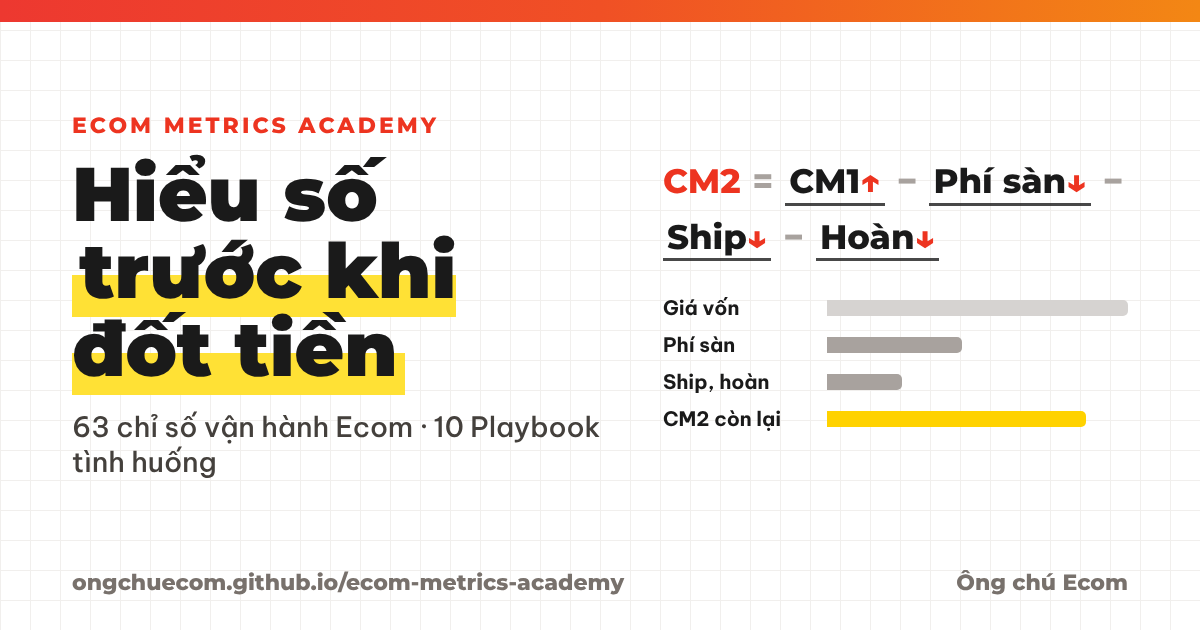
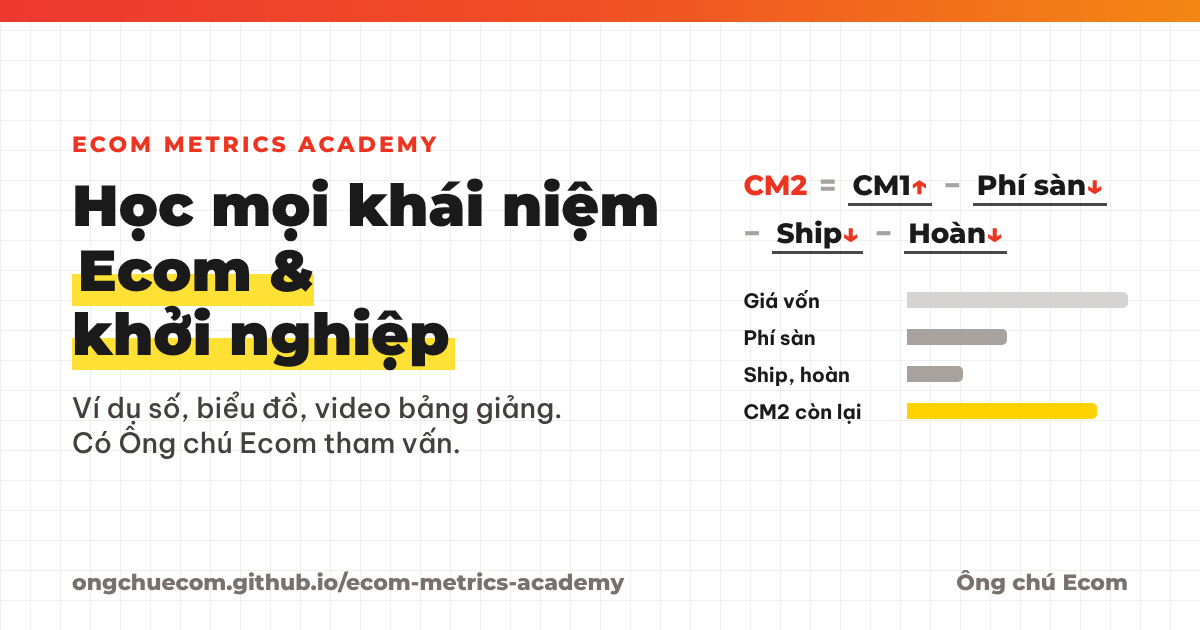
Trang chủ: định vị là nơi học mọi khái niệm Ecom và khởi nghiệp, có Ông chú Ecom tham vấn
- Chỉ số là mảng đầu tiên, kho khái niệm được thêm dần
- Dành cho ai: người khởi nghiệp, chủ shop đang vận hành, đội ngũ
- Cập nhật mô tả SEO, ảnh chia sẻ và dòng giới thiệu ở thanh bên

Claude-Session: https://claude.ai/code/session_01VjiKSVrxM6hFhmcFRpdeVG

Changed region(s): [[0.0617, 0.181, 0.9558, 0.754], [0.555, 0.4524, 0.9558, 0.6937]]

diff --git a/src/components/Home.jsx b/src/components/Home.jsx
@@ -62,11 +62,12 @@ export default function Home({ onSelectMetric, onOpenPlaybook, onOpenHealth, onS
         <div>
           <p className="eyebrow text-brand-600">Ecom Metrics Academy · Miễn phí</p>
           <h1 className="mt-2 font-display text-3xl font-black leading-tight text-ink sm:text-[2.6rem]">
-            Học đọc số để shop <span className="marker">có lãi thật</span>, không chỉ có doanh thu
+            Học mọi khái niệm Ecom và khởi nghiệp, <span className="marker">có Ông chú Ecom tham vấn</span>
           </h1>
           <p className="mt-4 max-w-xl text-[15px] leading-relaxed text-body">
-            Đây là nơi học <b>{nM} chỉ số vận hành Ecom</b> và <b>{nP} Playbook tình huống</b> cho chủ shop TikTok Shop, Shopee, Lazada và website.
-            Mỗi chỉ số có công thức, ví dụ số của shop Việt, video bảng giảng một phút và sơ đồ nó kéo theo những chỉ số nào. Viết theo văn phong sách Ecom Truyền Kỳ, nói thẳng, có số.
+            Làm Ecom và khởi nghiệp có cả trăm khái niệm phải hiểu đúng: lãi thật, dòng tiền, tồn kho, quảng cáo, đội ngũ, vận hành…
+            Ở đây mỗi khái niệm được giải thích bằng ví dụ số, biểu đồ và video bảng giảng, theo văn phong sách Ecom Truyền Kỳ: nói thẳng, có số, áp dụng được ngay.
+            Chỗ nào chưa thông thì hỏi thẳng Ông chú Ecom.
           </p>
           <div className="mt-5 flex flex-wrap gap-2">
             <button onClick={onOpenHealth} className="rounded-full bg-brand-600 px-5 py-2.5 font-display text-sm font-bold text-white hover:bg-brand-700">Khám sức khỏe shop →</button>
@@ -83,10 +84,11 @@ export default function Home({ onSelectMetric, onOpenPlaybook, onOpenHealth, onS
 
       {/* Có gì bên trong */}
       <section aria-labelledby="ben-trong">
-        <H2 id="ben-trong">Bên trong có gì</H2>
+        <H2 id="ben-trong">Đang có gì để học</H2>
+        <p className="-mt-1 mb-4 max-w-3xl text-sm leading-relaxed text-charcoal">Kho khái niệm được thêm dần, mảng đầu tiên là các chỉ số vận hành vì đó là chỗ nhiều shop mất tiền nhất. Các khái niệm mới được rút từ sách Ecom Truyền Kỳ và từ những bài viết hay, Ông chú Ecom duyệt rồi mới lên.</p>
         <dl className="grid gap-x-8 gap-y-5 sm:grid-cols-2 lg:grid-cols-4">
           {[
-            [nM, 'bài chỉ số', 'Từ giá vốn, phí sàn, CM1–CM3 tới ROAS hòa vốn, tồn kho, dòng tiền, đội ngũ. Đi theo 7 khâu của một shop.'],
+            [nM, 'khái niệm chỉ số', 'Từ giá vốn, phí sàn, CM1–CM3 tới ROAS hòa vốn, tồn kho, dòng tiền, đội ngũ. Đi theo 7 khâu của một doanh nghiệp Ecom.'],
             [nP, 'Playbook tình huống', 'Doanh thu cao mà không lãi, lãi trên giấy mà hết tiền, vít Ads khi nào… mỗi Playbook có case, sai lầm hay gặp và việc cần làm.'],
             ['1', 'bản khám sức khỏe shop', 'Điền P&L một tháng, nhận chẩn đoán từng tầng lãi và Playbook nên đọc trước.'],
             ['10', 'bài tập chẩn đoán', 'Bệnh án shop thật, tự tính và tự quyết, sai thì có gợi ý.'],
@@ -104,9 +106,9 @@ export default function Home({ onSelectMetric, onOpenPlaybook, onOpenHealth, onS
         <H2 id="danh-cho-ai">Dành cho ai</H2>
         <ul className="grid gap-3 sm:grid-cols-3">
           {[
-            ['Chủ shop, founder', 'Doanh thu đều mà cuối tháng không thấy tiền. Cần biết tiền rò ở tầng nào và sửa chỗ nào trước.'],
-            ['Team Ads, vận hành, kế toán', 'Cần chung một cách tính: ROAS bao nhiêu thì hòa vốn, đơn hoàn tốn bao nhiêu, tiền kẹt ở đâu.'],
-            ['Người mới vào nghề', 'Đi theo lộ trình 10 bài, mỗi bài năm phút đọc, có ví dụ số để tự tính lại.'],
+            ['Người đang khởi nghiệp', 'Mới bắt đầu hoặc sắp bắt đầu làm Ecom. Cần hiểu đúng khái niệm trước khi bỏ tiền, khỏi phải trả học phí bằng tiền thật.'],
+            ['Chủ shop, founder đang vận hành', 'Doanh thu đều mà cuối tháng không thấy tiền, bộ máy phình ra, tiền kẹt. Cần biết vấn đề nằm ở đâu và sửa chỗ nào trước.'],
+            ['Đội ngũ và người mới vào nghề', 'Team Ads, vận hành, kế toán cần chung một cách hiểu và cách tính. Người mới đi theo lộ trình, mỗi bài năm phút đọc.'],
           ].map(([t, d]) => (
             <li key={t} className="rounded-2xl bg-stone-50 p-4">
               <p className="font-display font-extrabold text-ink">{t}</p>
@@ -131,9 +133,9 @@ export default function Home({ onSelectMetric, onOpenPlaybook, onOpenHealth, onS
             <ul className="mt-4 space-y-2 text-sm leading-relaxed text-body">
               <li className="flex gap-2"><span className="mt-2 h-1.5 w-1.5 shrink-0 rounded-full bg-brand-500" />Làm online và digital marketing từ 2008, từng là co-founder một công ty digital hơn 100 người.</li>
               <li className="flex gap-2"><span className="mt-2 h-1.5 w-1.5 shrink-0 rounded-full bg-brand-500" />Ba năm gần đây làm việc cùng khoảng 50 công ty Ecom ở Hà Nội, Đà Nẵng, Sài Gòn, nói chuyện với hàng ngàn founder.</li>
-              <li className="flex gap-2"><span className="mt-2 h-1.5 w-1.5 shrink-0 rounded-full bg-brand-500" />Toàn bộ công thức và cách tính trên trang này đi theo sách Ecom Truyền Kỳ.</li>
+              <li className="flex gap-2"><span className="mt-2 h-1.5 w-1.5 shrink-0 rounded-full bg-brand-500" />Cách hiểu và cách tính trên trang này đi theo sách Ecom Truyền Kỳ.</li>
             </ul>
-            <p className="mt-4 text-sm leading-relaxed text-charcoal">Đọc bài mà vẫn chưa chắc số của shop mình đúng hay sai, cứ hỏi. Ông chú Ecom và đội A1demy trực tiếp trả lời.</p>
+            <p className="mt-4 text-sm leading-relaxed text-charcoal">Mỗi khái niệm trên trang đều qua tay Ông chú Ecom tham vấn. Đọc xong mà vẫn chưa chắc áp vào shop mình thế nào, cứ hỏi, Ông chú Ecom và đội A1demy trực tiếp trả lời.</p>
           </div>
 
           <div>
@@ -219,7 +221,8 @@ export default function Home({ onSelectMetric, onOpenPlaybook, onOpenHealth, onS
           {[
             ['Có mất phí không?', 'Không. Toàn bộ bài đọc, video, Playbook và công cụ khám sức khỏe đều miễn phí.'],
             ['Số trong ví dụ lấy ở đâu?', 'Là số minh họa dựng theo shop Việt điển hình, phép tính đều khớp. Số tham khảo chỉ để định hướng, mỗi ngành hàng sẽ khác.'],
-            ['Dùng cho TikTok Shop hay Shopee?', 'Cả hai, và cả website, Lazada. Công thức dùng chung, chỉ cần thay phí sàn, phí ship của kênh mình vào.'],
+            ['Chỉ có chỉ số thôi à?', 'Chỉ số là mảng đầu tiên. Kho khái niệm Ecom và khởi nghiệp được thêm dần từ sách Ecom Truyền Kỳ và những bài viết hay, khái niệm nào cũng có ví dụ số.'],
+            ['Bán kênh nào cũng dùng được?', 'Được. TikTok Shop, Shopee, Lazada hay website đều dùng chung cách hiểu; phần tính toán chỉ cần thay phí sàn, phí ship của kênh mình.'],
             ['Ai viết bài?', 'Ông chú Ecom biên soạn theo sách Ecom Truyền Kỳ, có AI hỗ trợ dựng ví dụ, biểu đồ và video. Bài mới chưa duyệt mang nhãn “Mới · đang duyệt”.'],
           ].map(([q, a]) => (
             <div key={q}>

diff --git a/index.html b/index.html
@@ -8,7 +8,7 @@
     <link rel="preconnect" href="https://fonts.gstatic.com" crossorigin />
     <link href="https://fonts.googleapis.com/css2?family=Be+Vietnam+Pro:wght@400;500;600;700&family=Montserrat:wght@600;700;800;900&display=swap" rel="stylesheet" />
     <meta name="theme-color" content="#FFDF38" />
-    <meta name="description" content="Học miễn phí 63 chỉ số vận hành Ecom và 10 Playbook tình huống cho chủ shop TikTok Shop, Shopee, website. Ông chú Ecom và đội A1demy giải đáp qua Zalo." />
+    <meta name="description" content="Học miễn phí mọi khái niệm Ecom và khởi nghiệp bằng ví dụ số, biểu đồ, video bảng giảng, theo sách Ecom Truyền Kỳ. Có Ông chú Ecom tham vấn và giải đáp." />
   </head>
   <body>
     <div id="root"></div>

diff --git a/src/App.jsx b/src/App.jsx
@@ -53,7 +53,7 @@ function Brand({ compact = false, onHome }) {
   return (
     <a href={href({ type: 'home' })} onClick={(e) => { e.preventDefault(); onHome() }} className="block leading-tight text-white">
       <p className="font-display text-[15px] font-black">Ecom Metrics Academy</p>
-      {!compact && <p className="text-xs text-white/85">Hiểu số trước khi đốt tiền</p>}
+      {!compact && <p className="text-xs text-white/85">Khái niệm Ecom &amp; khởi nghiệp</p>}
     </a>
   )
 }
